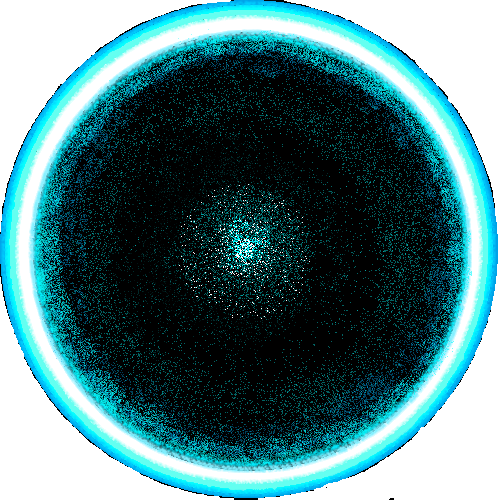
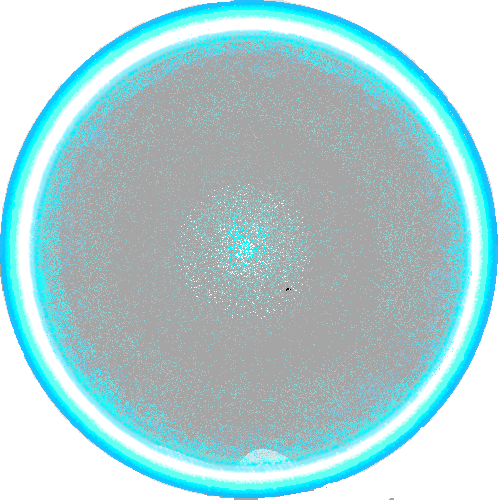
Hotfix
+ Added transparency to the charge explosion ring.
+ Added rotation to the ring.
+Changed the way drops work, so its not spread amongst a bunch of different cases (also very customizeable...Drops can drop an enemy, even!).

+Prevented projectiles from colliding with more then one object (harder to destroy asteroid clusters)
+Stopped asteroids from dropping items unless they're small enough to not propagate.

diff --git a/Shared/ScriptsCS/GameLogic.cs b/Shared/ScriptsCS/GameLogic.cs
@@ -70,6 +70,8 @@ public class GameLogic
         {
             GameObject A = collision.ObjectA;
             GameObject B = collision.ObjectB;
+
+            if (A.dead || B.dead) continue;//so proj don't double collide.
             switch (A, B)
             {
                 case (Projectile, Asteroid):
@@ -80,17 +82,6 @@ public class GameLogic
                     asteroid.hp -= proj.damage;
                     if (asteroid.hp <= 0)
                     {
-                        int dropRate = Random.Shared.Next(0,100);
-                        if (dropRate < 10) //10% chance to spawn missile ammo
-                        {
-                            MissileAmmo m = MissileAmmo.GenerateMissileAmmo(asteroid.transform);
-                            AddGameObject(m);
-                        }
-                        else if(dropRate > 97)   //2% chance to spawn siesmic charge
-                        {
-                            MineAmmo Mbox = MineAmmo.GenerateMineAmmo(asteroid.transform);
-                            AddGameObject(Mbox);
-                        }
                         //getPlayerWithUID(proj.owner).AddScore(10); returns null for enemies. standby.
 
                         asteroid.Kill();
@@ -127,12 +118,12 @@ public class GameLogic
                     hp.Kill();
                     break;
                     
-                    case (RingExp , Enemy):
-                    case (Enemy , RingExp):
-                    case (RingExp , Player):
-                    case (Player , RingExp):    
-                    case (RingExp , Asteroid):
-                    case (Asteroid , RingExp):
+                case (RingExp , Enemy):
+                case (Enemy , RingExp):
+                case (RingExp , Player):
+                case (Player , RingExp):    
+                case (RingExp , Asteroid):
+                case (Asteroid , RingExp):
                     RingExp ring = A is RingExp ? (RingExp)A : (RingExp)B;
                     GameObject other2 = A is RingExp ? (GameObject)B : (GameObject)A;
                     if (ring.alreadyHit.Contains(other2)) //if we've already calculated a
@@ -150,17 +141,6 @@ public class GameLogic
                         AR.hp -= ring.damage;
                         if (AR.hp <= 0)
                         {
-                            int dropRate = Random.Shared.Next(0,100);
-                            if (dropRate < 10) //10% chance to spawn missile ammo
-                            {
-                                MissileAmmo box = MissileAmmo.GenerateMissileAmmo(AR.transform);
-                                AddGameObject(box);
-                            }
-                            else if(dropRate > 97)   //2% chance to spawn siesmic charge
-                            {
-                                MineAmmo m  = MineAmmo.GenerateMineAmmo(AR.transform);
-                                AddGameObject(m);
-                            }
                             AR.Kill();
                         }
 
@@ -168,21 +148,6 @@ public class GameLogic
                     if (other2 is Enemy ER)
                     {
                         ER.hp -= ring.damage;
-                        if (ER.hp <= 0)
-                        {
-                            int dropRate = Random.Shared.Next(0,100);
-                            if (dropRate < 20) //20% chance to spawn missile ammo
-                            {
-                                MissileAmmo box = MissileAmmo.GenerateMissileAmmo(ER.transform);
-                                AddGameObject(box);
-                            }
-                            else if(dropRate > 97)   //2% chance to spawn siesmic charge
-                            {
-                                MineAmmo m  = MineAmmo.GenerateMineAmmo(ER.transform);
-                                AddGameObject(m);
-                            }
-                            ER.Kill();
-                        }
                     }
                     break;
 
@@ -202,17 +167,7 @@ public class GameLogic
                         asteroid3.hp -= explosion.damage;
                         if (asteroid3.hp <= 0)
                         {   
-                        int dropRate = Random.Shared.Next(0,100);
-                        if (dropRate < 10) //10% chance to spawn missile ammo
-                        {
-                            MissileAmmo box = MissileAmmo.GenerateMissileAmmo(asteroid3.transform);
-                            AddGameObject(box);
-                        }
-                        else if(dropRate > 97)   //2% chance to spawn siesmic charge
-                        {
-                            MineAmmo m  = MineAmmo.GenerateMineAmmo(asteroid3.transform);
-                            AddGameObject(m);
-                        }
+
                             asteroid3.Kill();
                         }
                     }
@@ -222,17 +177,6 @@ public class GameLogic
                         enemy1.hp -= explosion.damage;
                         if (enemy1.hp <= 0)
                         {   
-                        int dropRate = Random.Shared.Next(0,100);
-                        if (dropRate < 20) //20% chance to spawn missile ammo
-                        {
-                            MissileAmmo box = MissileAmmo.GenerateMissileAmmo(enemy1.transform);
-                            AddGameObject(box);
-                        }
-                        else if(dropRate > 97)   //5% chance to spawn siesmic charge
-                        {
-                            MineAmmo m  = MineAmmo.GenerateMineAmmo(enemy1.transform);
-                            AddGameObject(m);
-                        }
                             enemy1.Kill();
                         }
                     }
@@ -256,17 +200,7 @@ public class GameLogic
                         enemy2.hp -= proj3.damage;
                         if (enemy2.hp <= 0)
                         {
-                        int dropRate = Random.Shared.Next(0,100);
-                        if (dropRate < 20) //20% chance to spawn missile ammo
-                            {
-                            MissileAmmo box = MissileAmmo.GenerateMissileAmmo(enemy2.transform);
-                            AddGameObject(box);
-                            }
-                        else if(dropRate > 97)   //5% chance to spawn siesmic charge
-                            {
-                            MineAmmo m  = MineAmmo.GenerateMineAmmo(enemy2.transform);
-                            AddGameObject(m);
-                            }
+
                             enemy2.Kill();
                             getPlayerWithUID(proj3.owner)?.AddScore(50); //enemies give more points. standby on null for now.
                         }
@@ -365,19 +299,68 @@ public class GameLogic
             counter = DateTime.Now;
         }
 
-        // Healthpack spawning
-        /*
-        if ((DateTime.Now - healthPackCounter).TotalSeconds >= HealthPackSpawnCooldownSeconds)
-        {
-            Healthpack hp = Healthpack.GenerateHealthPack();
-            AddGameObject(hp);
-
-            healthPackCounter = DateTime.Now;
-        }
-        mvoe to asteroid death! :D */
     }
 
+    public void DropItem(Transform spawnPoint, params (String className, int dropChance)[] objects)
+    {
 
+        
+        int chance =  Random.Shared.Next(0,100);
+        string debug = "Dropping item, Chance: " + chance;
+        (String,int)[] defaultDrops = { ("Healthpack",20), ("MissleAmmo",10), ("MineAmmo",3)};
+        if (objects == null)
+        {
+            objects = defaultDrops;
+        }
+        int a = 0;
+        int b = 0;
+        foreach ( (String,int) obj in objects)
+        {
+            b += obj.Item2;
+            debug += "[Trying object: " + obj.Item1 + " in " + a + "," + b +"]...";
+            if (chance > a && chance <= b)
+            {
+                GameObject go = this.CreateGameObject(obj.Item1,Guid.NewGuid().ToString());
+                if (go == null)
+                {
+                    debug += "ERROR: Couldn't find that object!";
+                    Console.WriteLine(debug);
+                    return;
+                }
+                
+
+                go.transform.SetPosition(spawnPoint.GetPosition());
+
+                this.AddGameObject(go);
+
+                debug += "... succsess!!";
+
+                break;
+            }
+            a += obj.Item2;
+
+        }
+        //Console.WriteLine(debug);
+        /*
+        if (chance < 10) //10% chance to spawn missile ammo
+        {
+            MissileAmmo box = MissileAmmo.GenerateMissileAmmo(asteroid3.transform);
+            AddGameObject(box);
+        }
+        else if(dropRate > 97)   //2% chance to spawn siesmic charge
+        {
+            MineAmmo m  = MineAmmo.GenerateMineAmmo(asteroid3.transform);
+            AddGameObject(m);
+        }
+        if (Random.Shared.NextInt64(0,20) == 1) //5% chance to drop health pack on death. lots of asteroids. makes sense.
+        {
+            Transform hpTrans = new Transform(this.transform.rect.X, this.transform.rect.Y, 20, 20);
+            Healthpack hp = new Healthpack(hpTrans);
+            hp.velocity = this.transform.velocity / 4; // float away from explosion a bit.
+            gl.AddGameObject(hp);
+        }*/
+
+    }
     public Player getPlayerWithUID(Guid uid)
     {
         foreach (Player p in players)

diff --git a/Shared/ScriptsCS/Objects/Asteroid.cs b/Shared/ScriptsCS/Objects/Asteroid.cs
@@ -4,6 +4,8 @@ using System.Numerics;
 
 public class Asteroid : GameObject
 {
+     (string,int)[] drops = {("Healthpack",7),("MissileAmmo",5),("MineAmmo",2)};
+
     public float speed;
     bool dead = false;
 
@@ -45,13 +47,6 @@ public class Asteroid : GameObject
     {
 
                 
-        if (Random.Shared.NextInt64(0,20) == 1) //5% chance to drop health pack on death. lots of asteroids. makes sense.
-        {
-            Transform hpTrans = new Transform(this.transform.rect.X, this.transform.rect.Y, 20, 20);
-            Healthpack hp = new Healthpack(hpTrans);
-            hp.velocity = this.transform.velocity / 4; // float away from explosion a bit.
-            gl.AddGameObject(hp);
-        }
         float hypo = this.transform.GetHypotenuse();
         if (hypo > 40) // if we're big enough to split.
         {
@@ -68,7 +63,11 @@ public class Asteroid : GameObject
                 newAsteroid.SetDirection(randomDirection);
                 gl.AddGameObject(newAsteroid);
             }
-        
+
+        }
+        else
+        {
+            this.gl.DropItem(this.transform, drops); //only drop if we're too small to procreate. 
         }
         Explosion e = new Explosion(new Transform() { rect=this.transform.rect }, this.transform.velocity / 20, 1f);
         gl.AddGameObject(e);

diff --git a/Shared/ScriptsCS/Objects/Player.cs b/Shared/ScriptsCS/Objects/Player.cs
@@ -311,7 +311,9 @@ public class Player : GameObject
             Kill();
         }
     }
-    public void Kill()
+    (string,int)[] drops = {("Healthpack",60),("MissileAmmo",10),("MineAmmo",30)};
+
+    public override void Kill()
     {
         if (IsDead) return;
         IsDead = true;
@@ -319,6 +321,10 @@ public class Player : GameObject
         disableCollision = true;
         transform.velocity = Vector2.Zero;
         Console.WriteLine($"{playerNameString} died!");
+
+        //only good chance for a seizmic charge!
+
+        this.gl.DropItem(this.transform, drops);
     }
     private void Respawn()
     {

diff --git a/Shared/ScriptsCS/Parents/GameObject.cs b/Shared/ScriptsCS/Parents/GameObject.cs
@@ -18,6 +18,8 @@ public class GameObject : NetworkObject
     public bool disableCollision = false;
     public bool disableRender = false;
 
+    public bool dead = false;
+
     public GameObject(Transform transform, int spriteOverrideIndex = -1)
     {
         this.transform = transform;
@@ -62,6 +64,10 @@ public class GameObject : NetworkObject
 
     public virtual void Render(float deltaTime) { }
 
-    public virtual void Kill() => gl.RemoveGameObject(this);
+    public virtual void Kill() {
+        this.dead = true;
+        this.disableCollision = true;
+        gl.RemoveGameObject(this);
+    }
 
 }

diff --git a/Shared/ScriptsCS/Objects/Enemy.cs b/Shared/ScriptsCS/Objects/Enemy.cs
@@ -6,6 +6,8 @@ using System.Security.Cryptography.X509Certificates;
 
 public class Enemy : GameObject
     {
+        (string,int)[] drops = {("Healthpack",50),("MissileAmmo",25),("MineAmmo",25)};
+
         public int state = 0; // 0 = wandering, 1 = chasing, 2 = attacking
         public GameObject target;
         public Vector2 targetPos;
@@ -146,7 +148,7 @@ public class Enemy : GameObject
         }
         public override void Kill()
         {
-
+            this.gl.DropItem(this.transform,drops );
             Explosion e = new Explosion(new Transform() { rect = this.transform.rect }, this.transform.velocity / 10, 1f);
             gl.AddGameObject(e);
             base.Kill();

diff --git a/Shared/ScriptsCS/Objects/RingExp.cs b/Shared/ScriptsCS/Objects/RingExp.cs
@@ -18,13 +18,13 @@ public class RingExp : Explosion
         this.damage = 2000;
         this.force = 0f;
         this.maxFrames = 3;
-        this.transform.rotation = 0f; 
-        this.transform.rotationSpeed = 0f;
+        this.transform.rotationSpeed = Random.Shared.NextInt64(-20,20) / 10f;
         this.transform.velocity = new Vector2(0,0);
     }
 
     public override void Update()
     {
+        this.transform.Update();
         if (this.currentFrame < 3)
         {
             localAnimtime--;